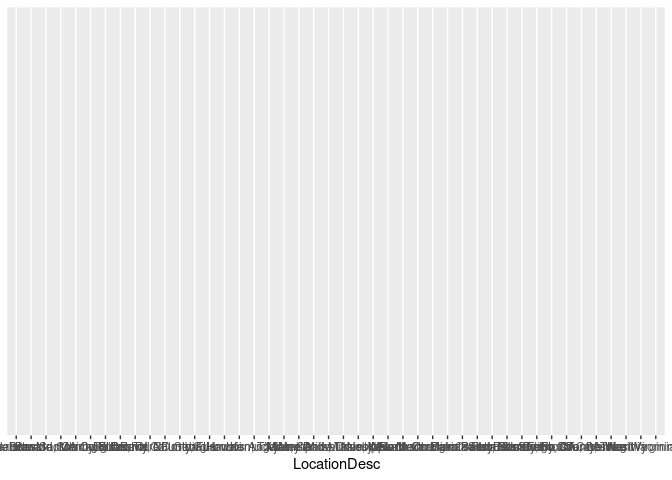
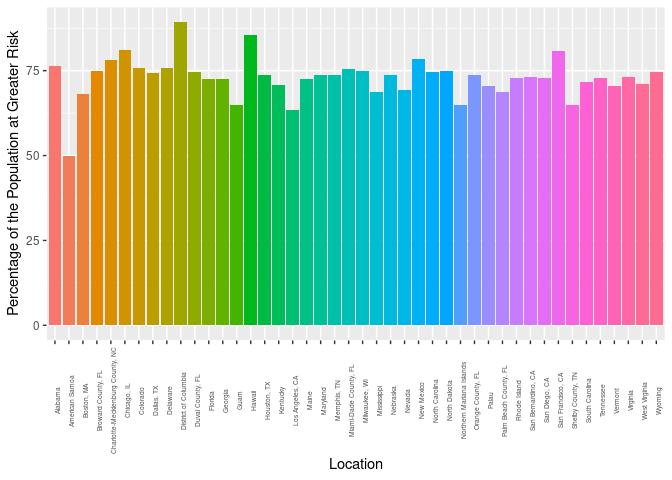
h

diff --git a/proposal/proposal.md b/proposal/proposal.md
@@ -286,7 +286,13 @@ issue.
 ``` r
 Weight_Issues_Edited %>%
   group_by(LocationDesc) %>%
-  ggplot(aes(x = LocationDesc , y = ))
+  ggplot(aes(x = LocationDesc , y = Greater_Risk_Data_Value, fill = LocationDesc)) +
+  geom_bar(stat = "identity", position = "dodge") +
+  theme(axis.text.x = element_text(angle = 90, size = 5), legend.position = "None") +
+  xlab("Location") +
+  ylab("Percentage of the Population at Greater Risk")
 ```
+
+    ## Warning: Removed 26846 rows containing missing values (geom_bar).
 
 ![](proposal_files/figure-gfm/unnamed-chunk-11-1.png)<!-- -->
